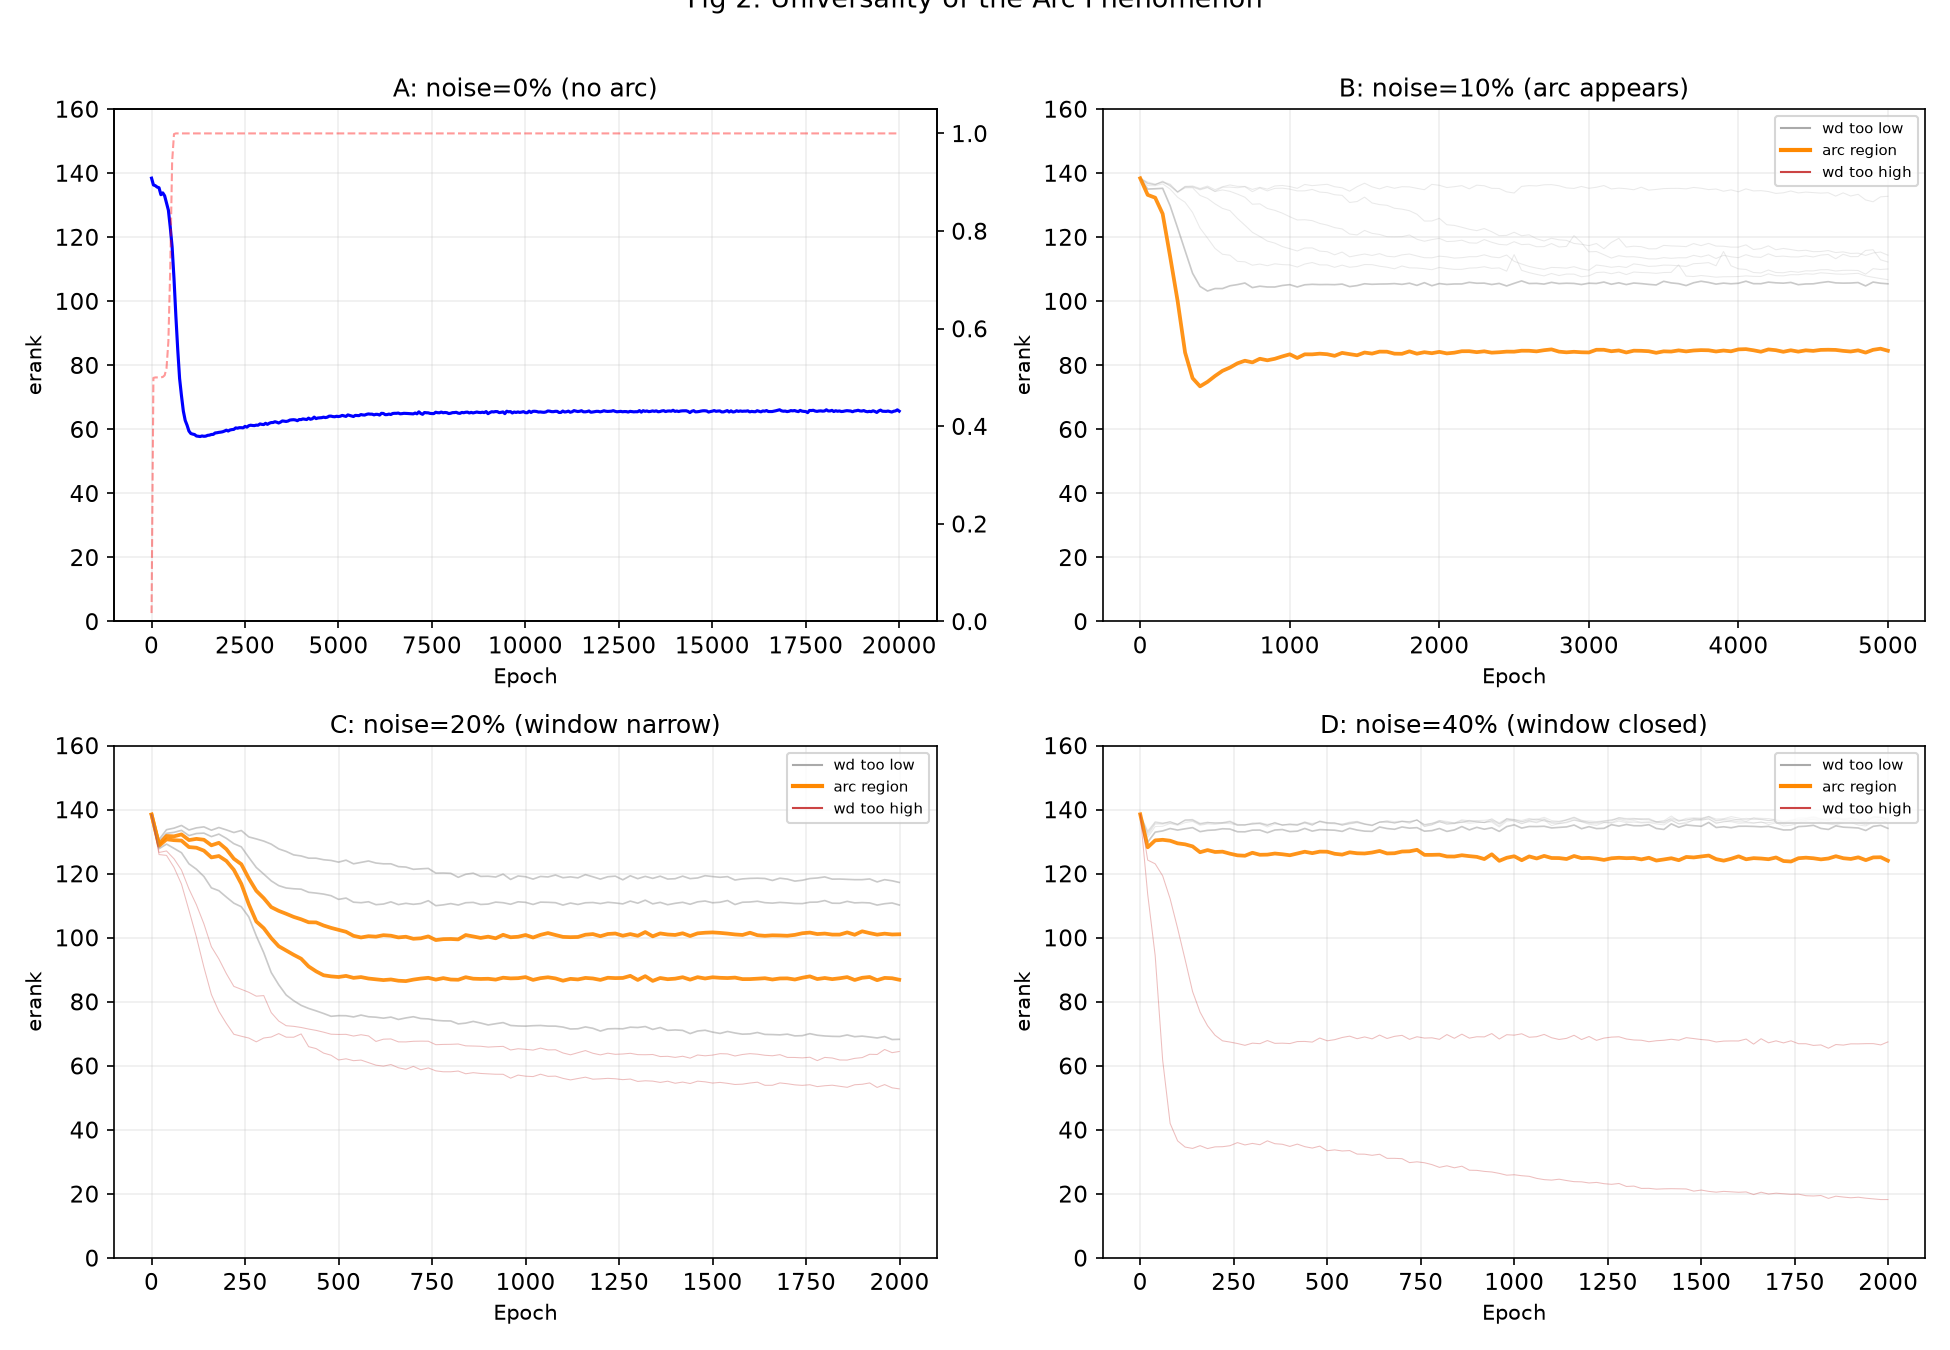
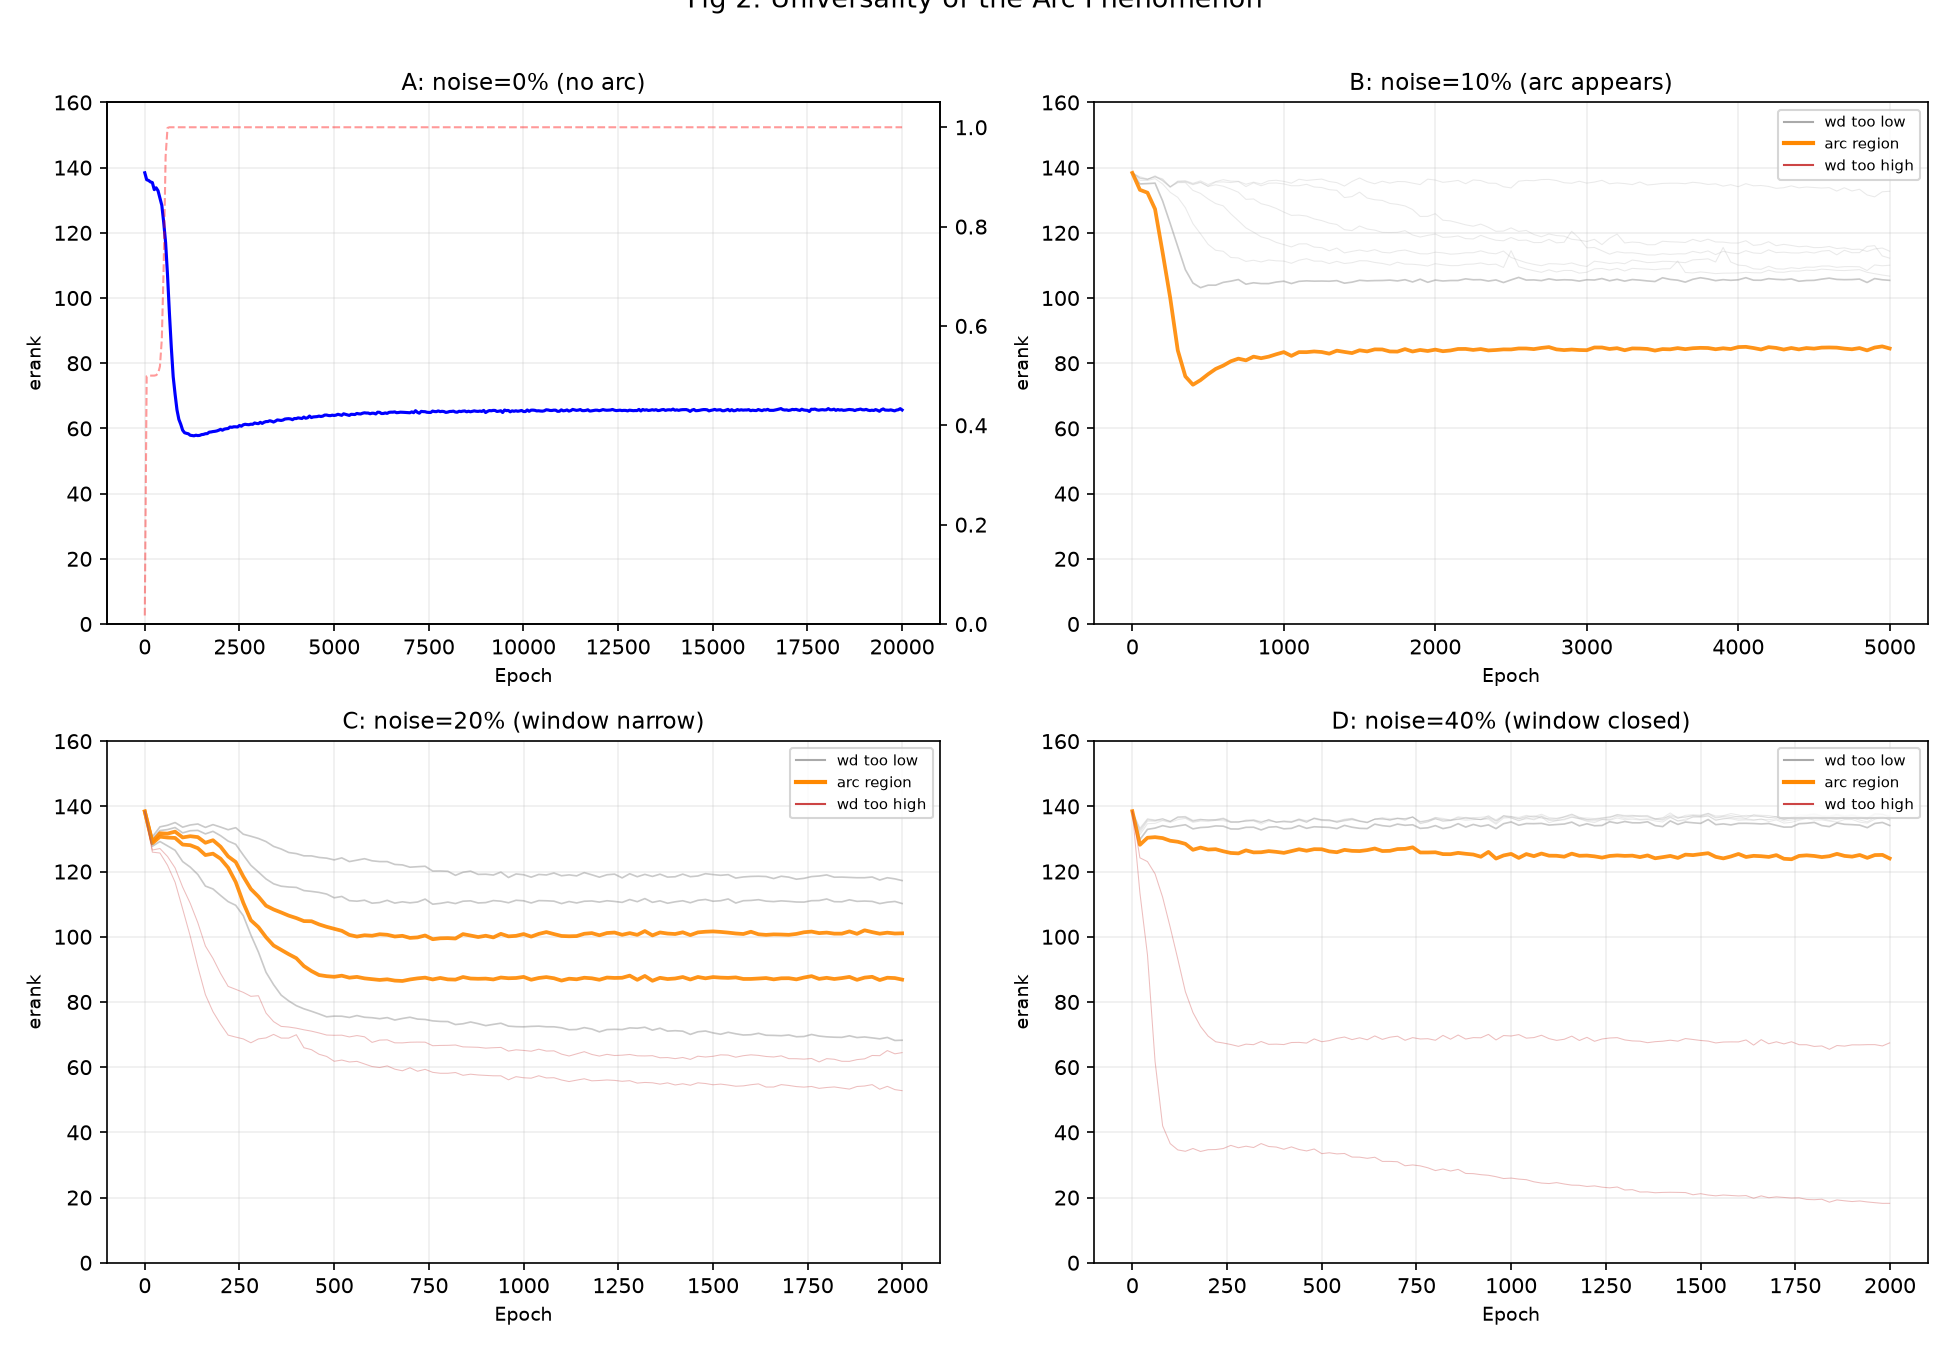
v4: new fig1 — all wd for noise=0 and noise=0.1 with inverted erank

diff --git a/src/plot.py b/src/plot.py
@@ -1,30 +1,59 @@
-"""Generate all figures — English labels for font compatibility."""
+"""FIG 1: All wd values — noise=0 and noise=0.1 — erank inverted + accuracy."""
 import json, matplotlib
 matplotlib.use('Agg')
 import matplotlib.pyplot as plt
 import numpy as np
 
 DATA = 'data'; OUT = 'figures'
-plt.rcParams.update({'font.size': 11, 'axes.titlesize': 12, 'axes.labelsize': 10})
+plt.rcParams.update({'font.size': 10, 'axes.titlesize': 11, 'axes.labelsize': 9})
 
 def load(fn):
     with open(f'{DATA}/{fn}') as f: return json.load(f)
 
-# ============================================================
-# FIG 1: Grokking — wd=0.5 vs wd=0.0, erank INVERTED
-# ============================================================
-d = load('grokking_trajectory.json')
-fig, (ax1, ax2) = plt.subplots(1, 2, figsize=(13, 4.5))
-for ax, key, title in [(ax1, 'wd_0.5', 'Grokking (wd=0.5)'), (ax2, 'wd_0.0', 'Memorization (wd=0.0)')]:
-    v = d[key]; ep = v['epoch']; ea = [140 - e for e in v['erank']]; ta = v['test_acc']
-    ax.plot(ep, ea, 'b-', linewidth=1.2, label='140 - erank (inverted)')
-    ax.plot(ep, [t*140 for t in ta], 'r-', linewidth=1.5, alpha=0.6, label='Test Acc x140')
-    ax.set_ylim(0, 145)
-    ax.set_xlabel('Epoch'); ax.set_ylabel('Score')
-    ax.set_title(title); ax.grid(True, alpha=0.2)
-    ax.legend(fontsize=8, loc='lower right')
-plt.suptitle('Fig 1: Grokking Trajectory (p=97, dim=128, 20000 epochs)', y=1.02)
-plt.tight_layout(); plt.savefig(f'{OUT}/fig1_grokking.png', dpi=150); plt.close()
+# Panel data: (title, filename, wd_list)
+panels = [
+    # noise=0 — grokking trajectory (only wd=0.0 and 0.5 available)
+    ('noise=0%, wd=0.5', 'grokking_trajectory.json', ['wd_0.5'], True),
+    ('noise=0%, wd=0.0', 'grokking_trajectory.json', ['wd_0.0'], True),
+    # noise=0.1 — all wd from arc discovery
+    ('noise=10%, wd=0.1-3.0', 'arc_discovery_noise01.json', None, False),
+]
+
+fig, axes = plt.subplots(1, 3, figsize=(18, 5))
+
+for idx, (title, fn, wd_keys, is_single) in enumerate(panels):
+    ax = axes[idx]
+    if is_single:
+        v = load(fn)[wd_keys[0]]
+        ep = v['epoch']; ea = v['erank']; ta = v['test_acc']
+        inv = [140 - e for e in ea]
+        ax.plot(ep, inv, 'b-', linewidth=1.5, label='140 - erank')
+        ax.plot(ep, [t*140 for t in ta], 'r--', linewidth=1.2, alpha=0.5, label='Acc x140')
+        # annotate endpoints
+        ax.annotate(f'{inv[0]:.0f}', xy=(ep[0], inv[0]), fontsize=8, color='b')
+        ax.annotate(f'{inv[-1]:.0f}', xy=(ep[-1], inv[-1]), fontsize=8, color='b',
+                    xytext=(ep[-1]-800, inv[-1]+5))
+    else:
+        d2 = load(fn)
+        cmap = plt.cm.tab10
+        for i, k in enumerate(sorted(d2.keys(), key=float)):
+            v = d2[k]; wd = float(k); ep = v['epoch']; ea = v['erank']
+            inv = [140 - e for e in ea]
+            c = cmap(i % 10)
+            lw = 1.8 if wd in [2.0, 2.2] else 0.7
+            alpha = 0.9 if wd in [2.0, 2.2] else 0.35
+            ax.plot(ep, inv, color=c, linewidth=lw, alpha=alpha, label=f'wd={wd:.1f}')
+        # highlight arc region
+        ax.axvspan(400, 1000, alpha=0.06, color='orange')
+        ax.text(700, 10, 'arc region', fontsize=8, color='orange', ha='center')
+        ax.legend(fontsize=6, ncol=2, loc='lower right')
+
+    ax.set_title(title); ax.set_xlabel('Epoch'); ax.set_ylabel('Score')
+    ax.set_ylim(-5, 145); ax.grid(True, alpha=0.2)
+
+plt.suptitle('Fig 1: erank tracks grokking across all weight decay values (blue=140-erank, red=accuracy)',
+             y=1.02, fontsize=12)
+plt.tight_layout(); plt.savefig(f'{OUT}/fig1_all_wd.png', dpi=150); plt.close()
 
 # ============================================================
 # FIG 2: Universality across noise levels
@@ -51,8 +80,7 @@ for idx, (title, fn, wd_key, is_grok) in enumerate(configs):
             elif wd > 2.5: c, lw, alpha = '#cc4444', 0.5, 0.35
             elif 2.0 <= wd <= 2.2: c, lw, alpha = '#ff8800', 1.8, 0.9
             else: c, lw, alpha = '#888888', 0.8, 0.45
-            ax.plot(v['epoch'], v['erank'], color=c, linewidth=lw, alpha=alpha,
-                    label=f'wd={wd:.1f}' if wd in [0.5, 2.0, 3.0] else None)
+            ax.plot(v['epoch'], v['erank'], color=c, linewidth=lw, alpha=alpha)
         from matplotlib.lines import Line2D
         custom = [Line2D([0],[0],color='#aaaaaa',lw=1,label='wd too low'),
                   Line2D([0],[0],color='#ff8800',lw=2,label='arc region'),
@@ -88,7 +116,7 @@ plt.suptitle('Fig 3: Noise Scan (p=97, dim=128, wd=0.5, 2000e)', y=1.02)
 plt.tight_layout(); plt.savefig(f'{OUT}/fig3_noise.png', dpi=150); plt.close()
 
 # ============================================================
-# FIG 4: Arc detail — noise=0.1 with annotations
+# FIG 4: Arc detail
 # ============================================================
 d = load('arc_discovery_noise01.json')
 fig, ax = plt.subplots(figsize=(9, 5))

diff --git a/README.md b/README.md
@@ -49,11 +49,15 @@ erank = torch.exp(-(p := S/S.sum() * torch.log(p+1e-10)).sum()).item()
 
 ## 核心发现
 
-### 1. 有 weight decay 才顿悟，无则不泛化
+### 1. erank 追踪每一次 Grokking
 
-![grokking](figures/fig1_grokking.png?v=3)
+![all wd](figures/fig1_all_wd.png?v=3)
 
-蓝线 = 140 - erank（反转，越高表示越压缩），红线 = 测试准确率 × 140。左图：wd=0.5 下，两条曲线同步上升——erank 从 138 骤降到 60（反转后从 2 升到 80），测试准确率同时从 2% 跳到 100%。右图：wd=0.0 下，两条线都纹丝不动。
+三张子图，同一纵轴（140 - erank，越高 = 越压缩）。蓝线 = 压缩程度，红虚线 = 准确率。
+
+- **左**：noise=0%, wd=0.5。erank 从 138 降到 60（反转后 2→80），准确率从 2%→100%。两条曲线完美同步。
+- **中**：noise=0%, wd=0.0。erank 纹丝不动——模型从未压缩，也从未泛化。
+- **右**：noise=10%, 扫遍 wd=0.1 到 3.0。wd<1.5 不压缩（灰线），wd=2.0-2.2 出现弧形（橙色高亮区），wd>2.5 直接塌死。无论 wd 怎么变，erank 的轨迹忠实反映了泛化程度。
 
 ### 2. 弧形是普适现象
 